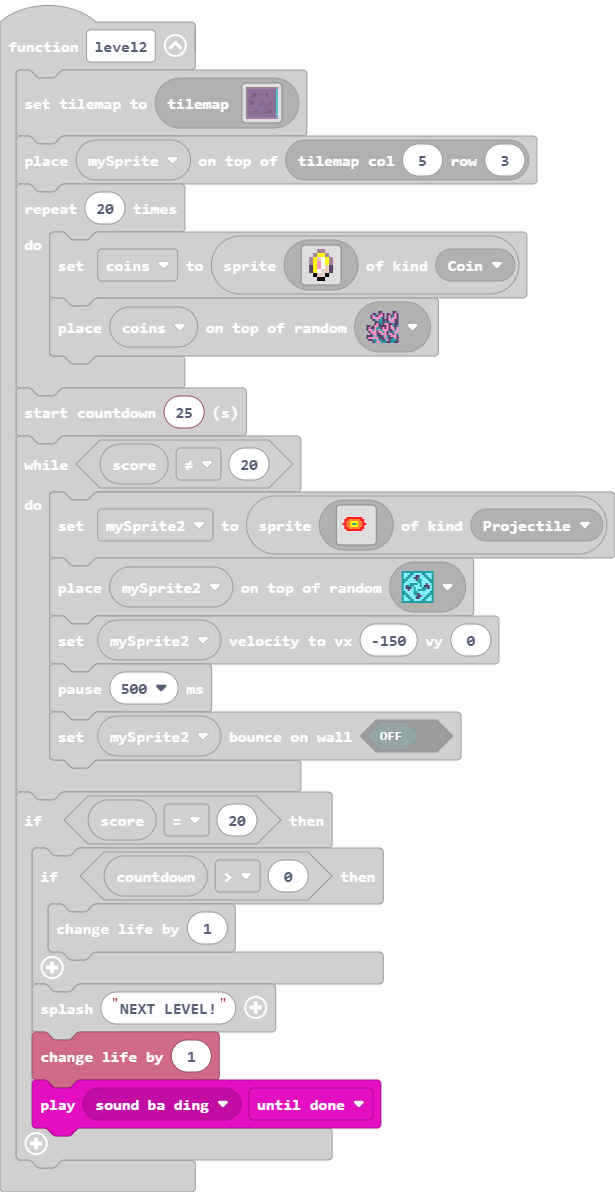
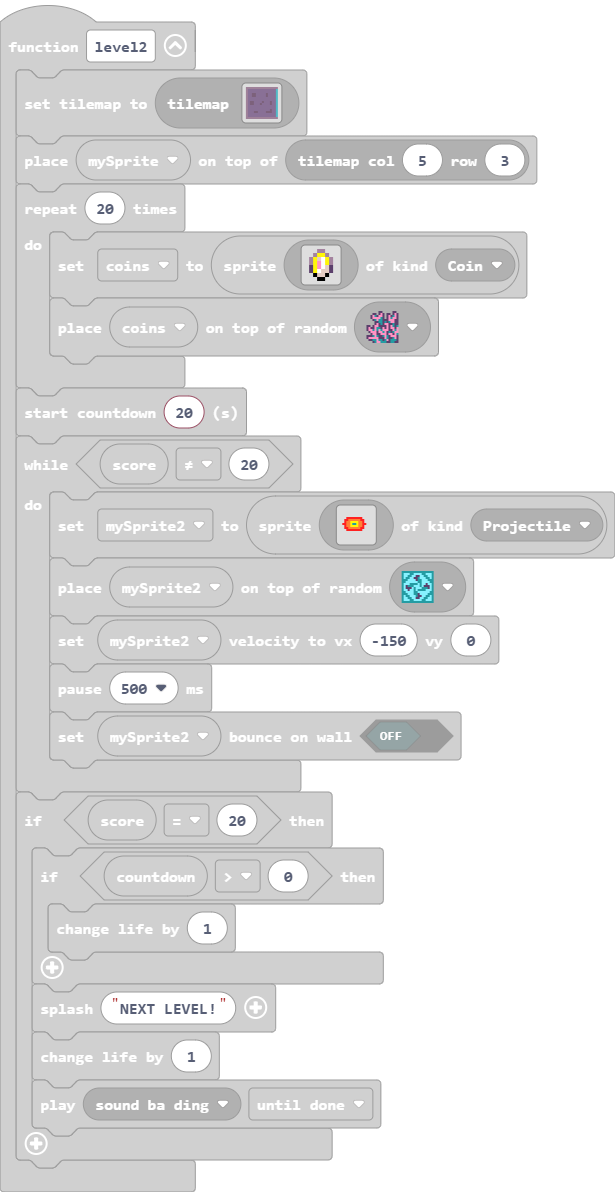
Update main.blocks, main.ts

Changed region(s): [[0.0309, 0.8381, 0.6179, 0.9622]]

diff --git a/main.ts b/main.ts
@@ -175,7 +175,7 @@ function level2 () {
             `, SpriteKind.Coin)
         tiles.placeOnRandomTile(coins, sprites.builtin.coral1)
     }
-    info.startCountdown(25)
+    info.startCountdown(20)
     while (info.score() != 20) {
         mySprite2 = sprites.create(img`
             . . . . . . . . . . . . . . . . 
